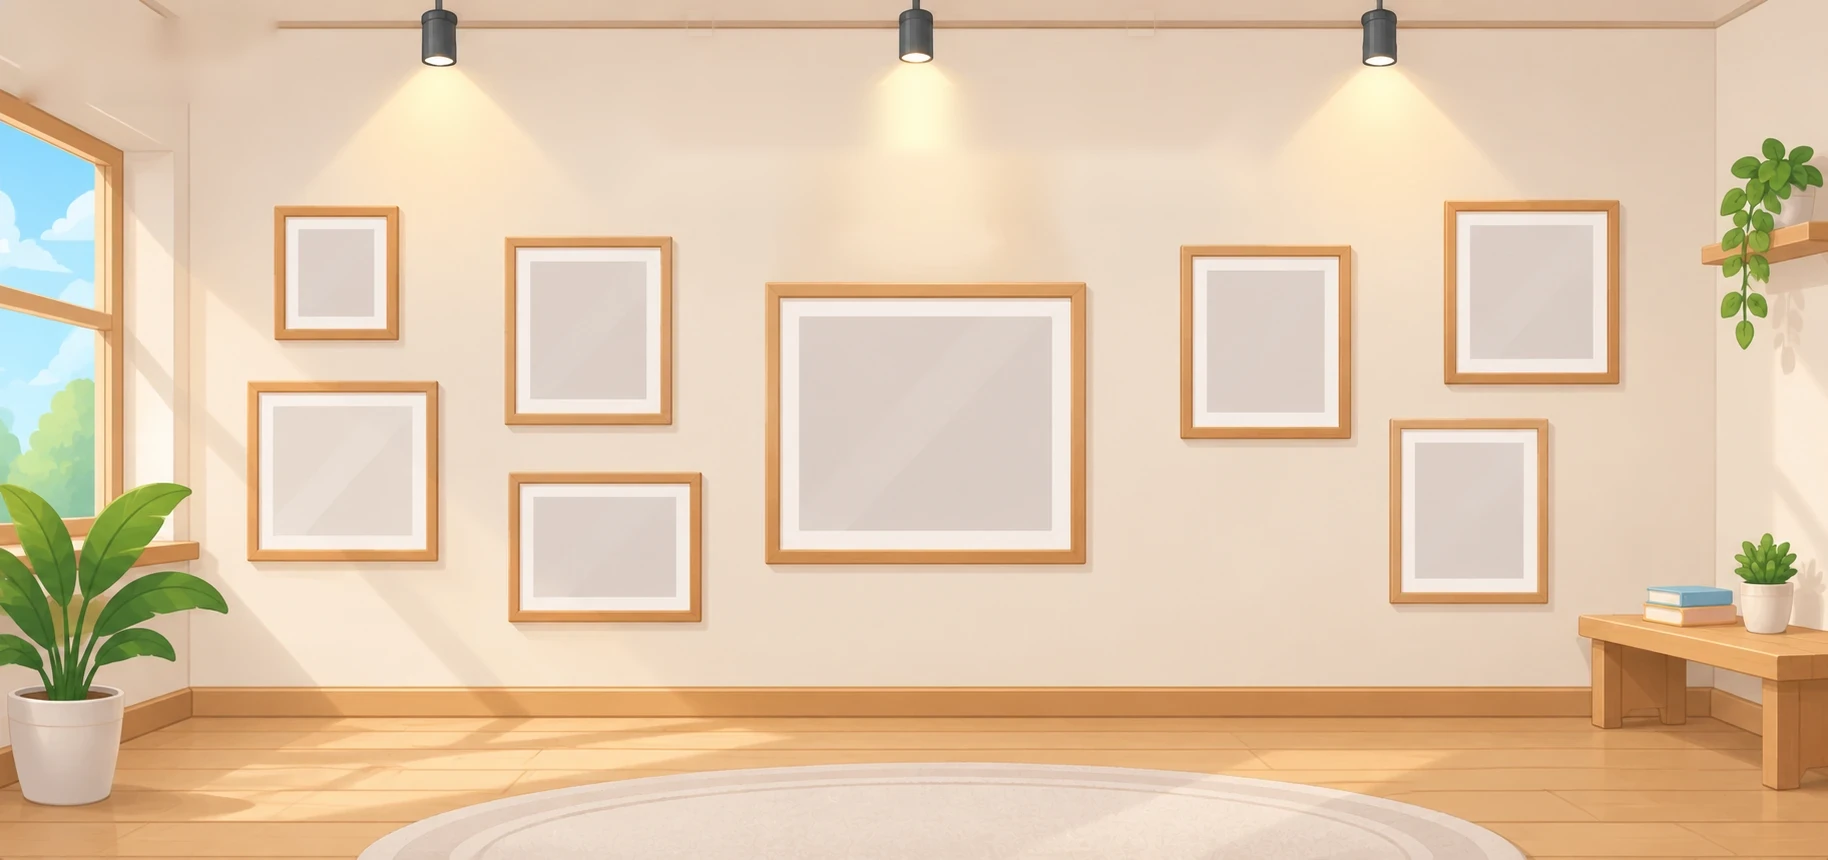
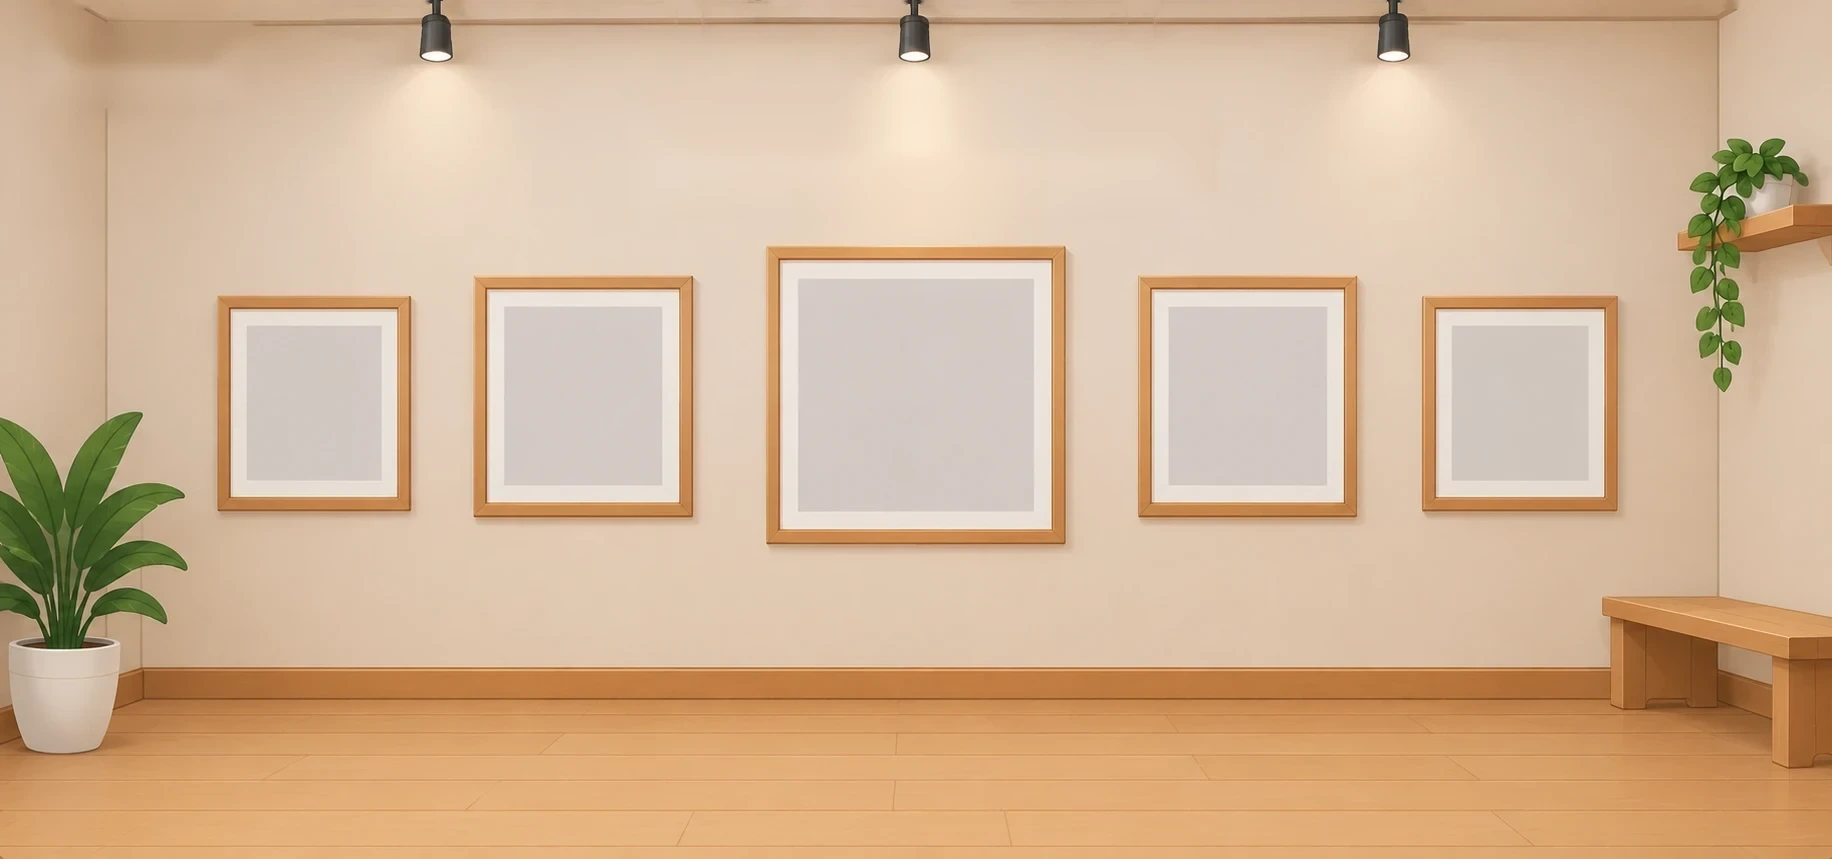
Bộ sưu tập: phòng 5 khung ngang theo ảnh mới, xoá thanh ray đen trên trần (#308)
* Thủ Lĩnh Thép: tô lại chỏm mũ (đỉnh xám, hai cánh xanh gọn, bật clip_to_ink để hết lem xám)

Claude-Session: https://claude.ai/code/session_01Xqfit1TE88fdJNq9wU4RBg

* Thủ Lĩnh Thép: đỉnh chỏm mũ tô xanh

Claude-Session: https://claude.ai/code/session_01Xqfit1TE88fdJNq9wU4RBg

* Gấu họa sĩ ở sảnh: chuyển động trên ảnh liền, nét không còn đứt khi cử động

Trước đây gấu là 7 lớp ảnh cắt rời (thân, đầu, 2 tay, 2 chân) xoay riêng nên mép cắt hở ra,
nét viền ở tay và khăn bị đứt vụn. Nay gấu là một ảnh liền, đầu/tay/chân/mắt chớp được uốn
bằng trường dịch chuyển mượt trên WebGL (bản đồ trọng số mờ dần ở khớp) nên các nét luôn nối
liền, độ dày đều. Vá thêm các lỗ xuyên thấu và vệt xước trong ảnh gốc (vai, bảng màu).
Không có WebGL hoặc bật giảm chuyển động thì hiện ảnh tĩnh. Giảm biên độ giơ cọ để không gập nét.

Claude-Session: https://claude.ai/code/session_01Xqfit1TE88fdJNq9wU4RBg

* Giao diện chọn tranh tô màu: bảng gỗ lớn, biển nhóm tuổi treo, nền như trang chủ

Trang chọn chủ đề và trang chọn tranh dùng chung bộ khung gỗ (biển tiêu đề treo có cây cọ,
3 biển nhóm tuổi, bảng gỗ lớn, khung tranh có ghim và nút mũi tên). Nền lấy ảnh của trang chủ,
gấu họa sĩ và biển chỉ đường ở hai bên khi màn hình rộng. Nhóm tuổi đang chọn được nhớ khi quay lại.

Claude-Session: https://claude.ai/code/session_01Xqfit1TE88fdJNq9wU4RBg

* Trang chọn chủ đề: bỏ nhãn gói dịch vụ (chỉ hiện ở trang chủ)

Claude-Session: https://claude.ai/code/session_01Xqfit1TE88fdJNq9wU4RBg
[…]

diff --git a/frontend/src/pages/Collection/Collection.jsx b/frontend/src/pages/Collection/Collection.jsx
@@ -289,18 +289,15 @@ function CardsTab() {
 
 /* ===================== Phòng triển lãm hiện đại (màn hình rộng) ===================== */
 
-const ROOM_W = 1828;
-const ROOM_H = 860;
-// Ô xám trong 8 khung treo tường của ảnh phòng (x1, y1, x2, y2 tính theo ảnh 1828×860), xếp theo thứ tự lấp đầy: khung giữa trước.
+const ROOM_W = 1832;
+const ROOM_H = 859;
+// Ô xám trong 5 khung treo tường của ảnh phòng (x1, y1, x2, y2 tính theo ảnh 1832×859), xếp theo thứ tự lấp đầy: khung giữa trước, rồi hai bên, rồi hai khung ngoài.
 const ROOM_SLOTS = [
-  [799, 316, 1051, 530],
-  [530, 262, 646, 398],
-  [1207, 270, 1324, 411],
-  [273, 406, 412, 535],
-  [1470, 225, 1592, 358],
-  [534, 497, 675, 596],
-  [1415, 443, 1523, 578],
-  [298, 229, 373, 315],
+  [798, 279, 1033, 510],
+  [504, 307, 661, 484],
+  [1169, 307, 1326, 484],
+  [247, 326, 380, 480],
+  [1452, 326, 1588, 480],
 ];
 const SLOT_PAD = 10;
 const box = (x, y, w, h) => ({ left: `${(x / ROOM_W) * 100}%`, top: `${(y / ROOM_H) * 100}%`, width: `${(w / ROOM_W) * 100}%`, height: `${(h / ROOM_H) * 100}%` });
@@ -360,14 +357,14 @@ function RoomShell({ tab, onTab, slots, pills, loading, emptyText }) {
   return (
     <div className="room" data-testid="collection-room">
       <div className="room-stage">
-        <span className="room-rope" style={{ left: `${(700 / ROOM_W) * 100}%`, height: `${(100 / ROOM_H) * 100}%` }} />
-        <span className="room-rope" style={{ left: `${(1141 / ROOM_W) * 100}%`, height: `${(100 / ROOM_H) * 100}%` }} />
-        <div className="room-sign" style={box(612, 92, 645, 111)}>
+        <span className="room-rope" style={{ left: `${(689 / ROOM_W) * 100}%`, height: `${(112 / ROOM_H) * 100}%` }} />
+        <span className="room-rope" style={{ left: `${(1141 / ROOM_W) * 100}%`, height: `${(112 / ROOM_H) * 100}%` }} />
+        <div className="room-sign" style={box(627, 101, 579, 103)}>
           <Leaf className="room-leaf room-leaf-l" />
           <h1 className="room-sign-title" data-testid="room-title">{t('collection.roomTitle')}</h1>
           <Leaf className="room-leaf room-leaf-r" />
         </div>
-        <Link to="/" className="room-back" style={box(27, 25, 205, 67)} data-testid="room-back">
+        <Link to="/" className="room-back" style={box(40, 30, 202, 66)} data-testid="room-back">
           <Icon name="back" size={20} strokeWidth={3} /> {t('common.back')}
           <Leaf className="room-leaf room-back-leaf" />
         </Link>
@@ -382,9 +379,9 @@ function RoomShell({ tab, onTab, slots, pills, loading, emptyText }) {
             </button>
           ) : null;
         })}
-        {!loading && slots.length === 0 && <p className="room-empty" style={box(520, 560, 780, 70)}>{emptyText}</p>}
+        {!loading && slots.length === 0 && <p className="room-empty" style={box(500, 560, 830, 70)}>{emptyText}</p>}
 
-        <div className="room-nav" style={box(300, 618, 1210, 74)}>
+        <div className="room-nav" style={box(330, 574, 1172, 76)}>
           <button type="button" className="room-arrow" disabled={cur === 0} onClick={() => setPage(cur - 1)} aria-label={t('common.back')} data-testid="room-prev">
             <Icon name="back" size={22} strokeWidth={3.4} />
           </button>
@@ -401,7 +398,7 @@ function RoomShell({ tab, onTab, slots, pills, loading, emptyText }) {
           {pages > 1 && <span className="room-page" data-testid="room-page">{cur + 1}/{pages}</span>}
         </div>
 
-        <div className="room-pills" style={box(1230, 92, 470, 100)}>{pills}</div>
+        <div className="room-pills" style={box(1236, 84, 440, 100)}>{pills}</div>
       </div>
     </div>
   );

diff --git a/frontend/src/index.css b/frontend/src/index.css
@@ -1121,10 +1121,10 @@ html[data-arena-enter] main .page > *:nth-child(n+5) { animation-delay: 280ms; }
 
 /* ===== Bộ sưu tập: phòng triển lãm hiện đại (màn hình rộng) ===== */
 .room { background: #E9CBA2; }
-.room-stage { position: relative; width: 100%; aspect-ratio: 1828 / 860; overflow: hidden; container-type: inline-size; background: url(/collection/room.webp) center / 100% 100% no-repeat; }
+.room-stage { position: relative; width: 100%; aspect-ratio: 1832 / 859; overflow: hidden; container-type: inline-size; background: url(/collection/room.webp) center / 100% 100% no-repeat; }
 .room-rope { position: absolute; z-index: 2; top: 0; width: 6px; margin-left: -3px; border-radius: 3px; background: repeating-linear-gradient(115deg, #D9A66A 0 3px, #9A6330 3px 6px); box-shadow: 0 0 0 1px rgba(110, 60, 15, 0.45); }
 .room-sign { position: absolute; z-index: 3; display: flex; align-items: center; justify-content: center; border: max(2px, 0.2cqw) solid #C58A4C; border-radius: 1.3cqw; background: linear-gradient(#FCE2B8, #F2C68C 60%, #EDB878); box-shadow: inset 0 0.15cqw 0 rgba(255, 255, 255, 0.6), 0 0.5cqw 1cqw rgba(110, 60, 15, 0.28); }
-.room-sign-title { margin: 0; white-space: nowrap; font-family: var(--font-display); font-weight: 800; line-height: 1; font-size: max(18px, 2.9cqw); color: #5E3510; }
+.room-sign-title { margin: 0; white-space: nowrap; font-family: var(--font-display); font-weight: 800; line-height: 1; font-size: max(17px, 2.6cqw); color: #5E3510; }
 .room-leaf { flex: none; width: max(22px, 2.6cqw); height: auto; }
 .room-leaf-l { margin-right: 1.4cqw; }
 .room-leaf-r { margin-left: 1.4cqw; transform: scaleX(-1); }
